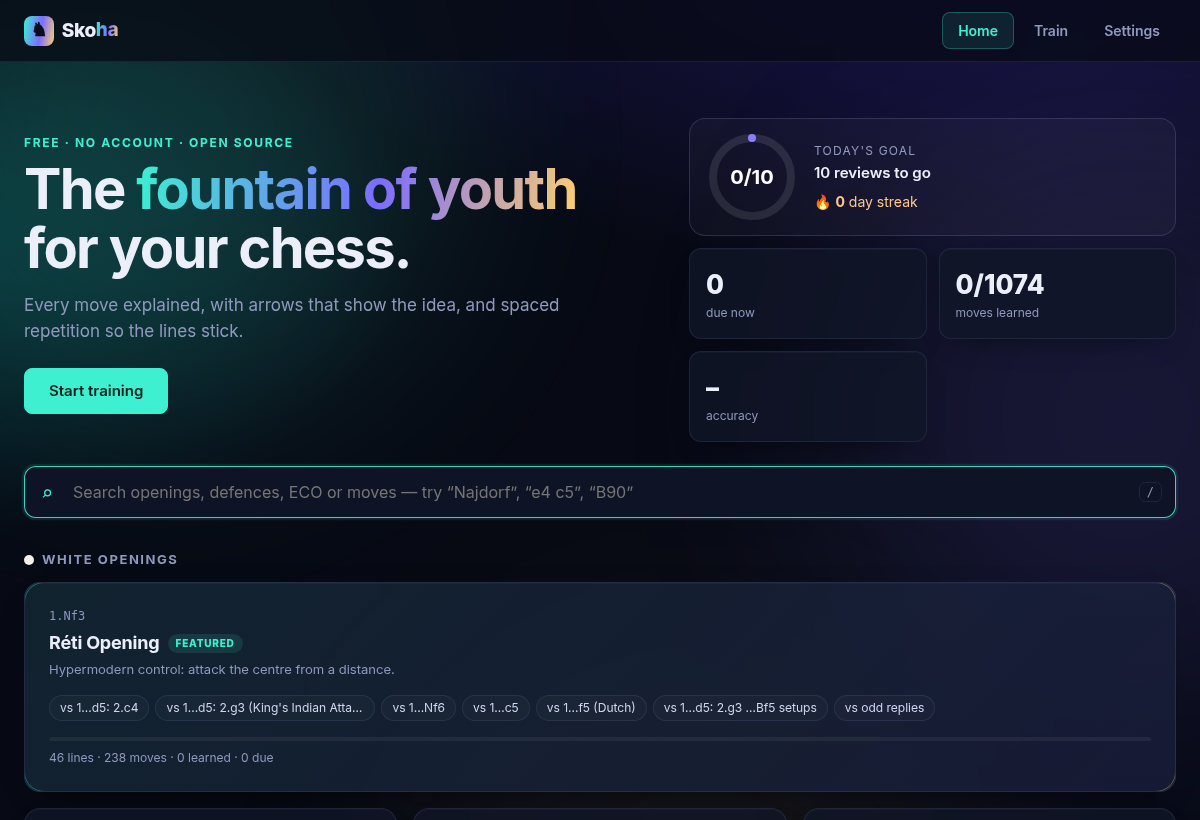
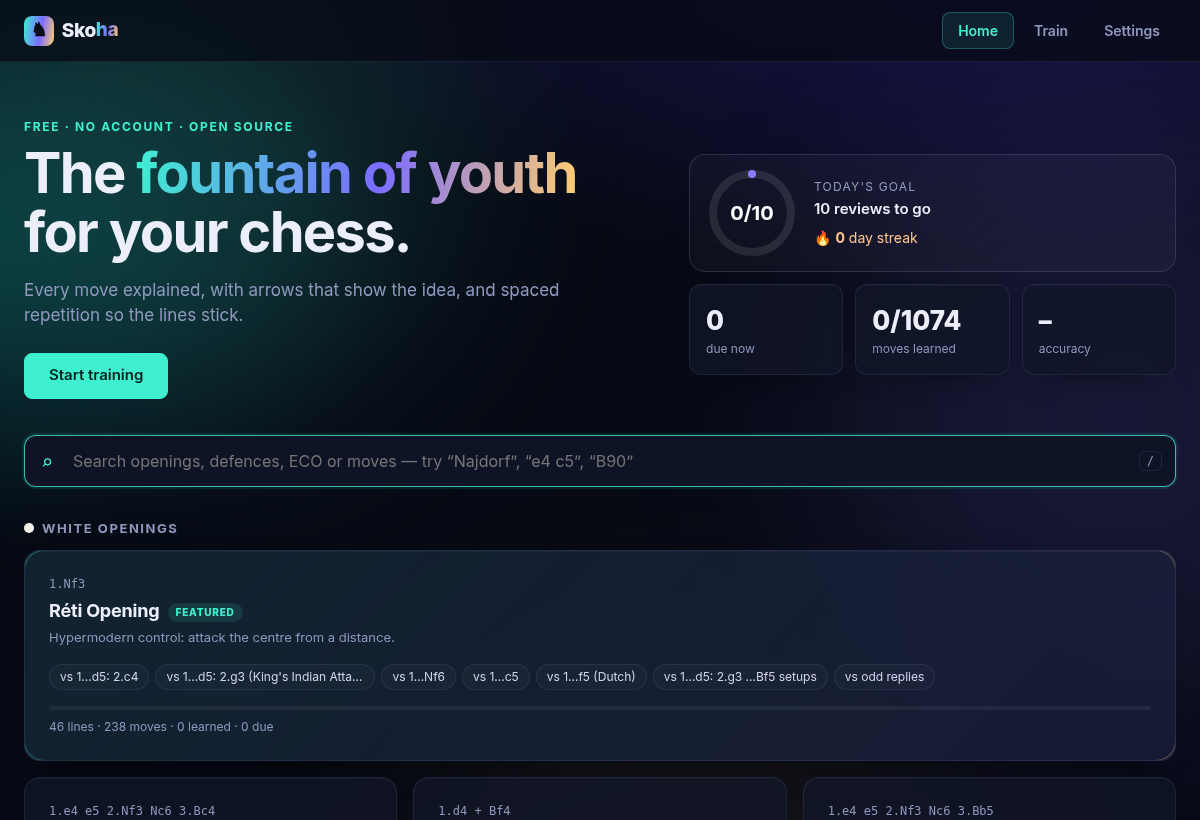
Guided by default: blue move guides on every move incl. learned ones; 'No help (test yourself)' toggle hides guides/answers (persisted); guided passes don't grow SR intervals; consistent wrong-move visuals (pulse cleared, green answer + red try, cue restored); home stats in one row

diff --git a/app.js b/app.js
@@ -1,13 +1,13 @@
 import { Chess, SQUARES } from './vendor/chess.js';
 import { Chessground } from './vendor/chessground.min.js';
-import { validateLine, parsePgn, dedupe, userCards, schedule, isDue, buildQueue, soundFor, toPgn, repMoves, fenKey, describeMove, buildSearchIndex, search, navStep, suggestOpenings, dayKey, addReview, goalStreak, ringSvg, syncPayload, mergeData, encodeSync, decodeSync } from './core.js?v=20261102n';
-import { KB } from './kb.js?v=20261102n';
-import { Engine } from './engine.js?v=20261102n';
-import { Narrator } from './narrator.js?v=20261102n';
+import { validateLine, parsePgn, dedupe, userCards, schedule, isDue, buildQueue, soundFor, toPgn, repMoves, fenKey, describeMove, buildSearchIndex, search, navStep, suggestOpenings, dayKey, addReview, goalStreak, ringSvg, guidedPass, syncPayload, mergeData, encodeSync, decodeSync } from './core.js?v=20261102o';
+import { KB } from './kb.js?v=20261102o';
+import { Engine } from './engine.js?v=20261102o';
+import { Narrator } from './narrator.js?v=20261102o';
 
 const KEY = 'freereps.v2';  // same key as v2 so progress carries over
 const $ = s => document.querySelector(s);
-const DEF = { sound: true, volume: 0.7, anim: 200, delay: 400, premove: true, dests: true, coords: true, autoNext: true, flip: false, newLimit: 10, theme: 'brown', notes: true, autoReply: false, dailyGoal: 10, narrator: false, voice: '', voiceRate: 1, voicePitch: 1, narrOpp: true, confirm: false };
+const DEF = { sound: true, volume: 0.7, anim: 200, delay: 400, premove: true, dests: true, coords: true, autoNext: true, flip: false, newLimit: 10, theme: 'brown', notes: true, autoReply: false, dailyGoal: 10, narrator: false, voice: '', voiceRate: 1, voicePitch: 1, narrOpp: true, confirm: false, help: 'guided' };
 let db = load();
 function load() {
   try {
@@ -333,7 +333,7 @@ function coach(ply, upcoming = false) {
   const mine = (ply % 2 === 0 ? 'w' : 'b') === userColor();
   const num = Math.floor(ply / 2) + 1 + (ply % 2 ? '...' : '.');
   const text = n?.t || describeMove(mv, c.inCheck());
-  const label = upcoming ? 'New move: why we play it' : mine ? 'Your move' : 'Opponent\'s reply';
+  const label = upcoming ? (drill.learning ? 'New move: why we play it' : 'Guided: your move') : mine ? 'Your move' : 'Opponent\'s reply';
   // bubble goes over the top edge (opponent's back ranks) unless the move or its arrows live there
   const whiteView = drillCg.state.orientation === 'white', row = q => whiteView ? 8 - +q[1] : +q[1] - 1;
   const nx = !upcoming && !mine && l.m[ply + 1] ? new Chess(c.fen()).move(l.m[ply + 1]) : null;
@@ -354,9 +354,10 @@ function coach(ply, upcoming = false) {
   if ($('#drill').classList.contains('active')) {
     const sh = shapesOf(n);
     if (upcoming) sh.push(...cueShapes(mv));
-    if (upcoming || drill.view != null || !(drill.learning && drill.chess.turn() === userColor())) drillCg.setAutoShapes(sh);
+    if (upcoming || drill.view != null || !(guided() && drill.chess.turn() === userColor())) drillCg.setAutoShapes(sh);
   }
 }
+const guided = () => drill.learning || S().help !== 'none';
 const PIECE = { p: 'pawn', n: 'knight', b: 'bishop', r: 'rook', q: 'queen', k: 'king' };
 function playLead(m) {
   if (m.flags.includes('k') || m.flags.includes('q')) return `Play ${m.san}: castle ${m.flags.includes('k') ? 'kingside' : 'queenside'} (king from ${m.from} to ${m.to})`;
@@ -366,7 +367,7 @@ const cueShapes = m => [{ orig: m.from, dest: m.to, brush: 'blue', modifiers: { 
 // show the move to play for a new (unlearned) move: bold blue arrow, ringed from/to squares, pulsing target, "Play X" bubble
 function cueNew() {
   const p = $('#drillPulse'); if (p) p.hidden = true;
-  if (!drill.line || drill.view != null || !drill.learning || drill.waiting || drill.ply >= drill.line.length || drill.chess.turn() !== userColor()) return;
+  if (!drill.line || drill.view != null || !guided() || drill.waiting || drill.ply >= drill.line.length || drill.chess.turn() !== userColor()) return;
   if (!$('#drill').classList.contains('active')) return;
   const m = new Chess(drill.chess.fen()).move(drill.line[drill.ply]); if (!m) return;
   coach(drill.ply, true); drillCg.setAutoShapes([...cueShapes(m)]);
@@ -378,6 +379,12 @@ function cueNew() {
   Object.assign(el.style, { left: bd.left - st.left + x + 'px', top: bd.top - st.top + y + 'px', width: w + 'px', height: w + 'px' }); el.hidden = false; el.dataset.sq = m.to;
 }
 window.__freereps.cueNew = () => cueNew();
+function helpUi() { const b = $('#helpToggle'), on = S().help !== 'none'; b.textContent = on ? '🧭 Help: Guided' : '🎯 No help (test yourself)'; b.setAttribute('aria-pressed', String(!on)); b.classList.toggle('nohelp', !on);
+  b.title = on ? 'Blue guides show every move. Click to test yourself from memory.' : 'Moves you have learned are hidden. Click to show guides again.'; }
+$('#helpToggle').onclick = () => { S().help = S().help === 'none' ? 'guided' : 'none'; save(); helpUi();
+  if (drill.line && drill.view == null && !play && drill.chess.turn() === userColor() && drill.ply < drill.line.length) {
+    if (guided()) { cueNew(); } else { drillCg.setAutoShapes([]); if ($('#drillPulse')) $('#drillPulse').hidden = true; if (drill.ply) coach(drill.ply - 1); else { $('#drillNote').className = 'bnote empty'; $('#drillNote').innerHTML = ''; } msg('No help: play the move from memory.'); } } };
+helpUi();
 // ---------- PWA: offline + install ----------
 if ('serviceWorker' in navigator && location.protocol !== 'file:') {
   navigator.serviceWorker.register('sw.js', { updateViaCache: 'none' }).then(r => { r.update().catch(() => {}); setInterval(() => r.update().catch(() => {}), 30 * 60e3); }).catch(() => {});
@@ -478,7 +485,7 @@ function navGo(v) {
     resync(); coach(drill.ply - 1); cueNew(); if (drill.waiting) drillCg.set({ movable: { color: undefined } }); navUi();
     if (drill.ply >= drill.line.length) drillCg.set({ movable: { color: undefined } });
     else if (drill.paused) { drill.paused = false; advance(); }
-    else if (drill.learning && drill.chess.turn() === userColor()) coach(drill.ply, true);
+    else if (guided() && drill.chess.turn() === userColor()) coach(drill.ply, true);
     return;
   }
   const c = new Chess(); drill.line.slice(0, nv).forEach(x => c.move(x)); const h = c.history({ verbose: true }).at(-1);
@@ -544,6 +551,7 @@ function advance() {
     const card = cardsOf(drill.rep)[cardKey()];
     drill.missed = false; drill.learning = !card;
     if (drill.learning) { msg(`New move: play <b>${drill.line[drill.ply]}</b> (follow the blue arrow).`); cueNew(); navUi(); }
+    else if (S().help !== 'none') { msg(`Your move: play <b>${drill.line[drill.ply]}</b> (guided). Switch to <b>No help</b> to test yourself.`); cueNew(); navUi(); }
     else { drillCg.setAutoShapes([]); cueNew(); }
     drillCg.playPremove();
   } else {
@@ -578,6 +586,7 @@ function record(ok) {
   const cs = cardsOf(drill.rep), k = cardKey(), card = cs[k];
   if (!ok) cs[k] = schedule(card, 2);
   else if (drill.learning) cs[k] = schedule(card, 4);
+  else if (!drill.missed && S().help !== 'none' && isDue(card)) cs[k] = guidedPass(card);
   else if (!drill.missed && isDue(card)) cs[k] = schedule(card, 5);
   db.stats ||= { reviews: 0, correct: 0 }; if (!drill.learning) { db.stats.reviews++; if (ok) db.stats.correct++; }
   { const was = (db.history || {})[dayKey()] || 0; db.history = addReview(db.history); if (was + 1 === (S().dailyGoal || 10)) setTimeout(() => toast('🎯 Daily goal reached! Streak: ' + goalStreak(db.history, S().dailyGoal) + ' day(s)'), 50); }
@@ -626,6 +635,9 @@ function wrongCard(m, expected) {
   el.innerHTML = `<div class="coach-card"><div class="coach-head"><span class="coach-san">${esc(m.san)} ✘</span><span class="who bad">Not this move</span></div><p class="play" id="wrongLead"><b>The move is ${esc(expected)}: ${esc(playLead(ok).replace(/^Play \S+: /, ''))}.</b></p><p>${esc(why)}</p><p class="prevnote">Try it now: follow the green arrow.</p></div>`;
   if ($('#drill').classList.contains('active')) drillCg.setAutoShapes([{ orig: m.from, dest: m.to, brush: 'red' }, { orig: ok.from, dest: ok.to, brush: 'green', modifiers: { lineWidth: 14 } }, { orig: ok.to, brush: 'green' }]);
   Narrator.say(null, `Not quite. The move is ${expected}. ${why}`);
+  if ($('#drillPulse')) $('#drillPulse').hidden = true;
+  const at = drill.ply, li = drill.li; clearTimeout(drill.wrongT);
+  drill.wrongT = setTimeout(() => { if (drill.ply === at && drill.li === li && drill.view == null && !play) cueNew(); }, 2600);
 }
 // optional tap-to-move confirm on touch screens
 const coarse = () => matchMedia('(pointer: coarse)').matches;

diff --git a/index.html b/index.html
@@ -7,7 +7,7 @@
 <link rel="stylesheet" href="vendor/chessground.base.css">
 <link rel="stylesheet" href="vendor/chessground.brown.css">
 <link rel="stylesheet" href="vendor/chessground.cburnett.css">
-<link rel="stylesheet" href="style.css?v=20261102n">
+<link rel="stylesheet" href="style.css?v=20261102o">
 <link rel="icon" href="icons/favicon-32.png" sizes="32x32"><link rel="icon" href="icons/icon.svg" type="image/svg+xml">
 <link rel="apple-touch-icon" href="icons/apple-touch-icon.png">
 <link rel="manifest" href="manifest.webmanifest">
@@ -80,6 +80,7 @@
       <select id="drillChapter" hidden aria-label="Chapter"></select>
       <select id="drillLine" hidden aria-label="Line"></select>
       </div></details>
+      <button id="helpToggle" class="helpt" aria-pressed="false">🧭 Help: Guided</button>
       <div class="tstats" id="drillStats" aria-live="polite"></div>
     </div>
     <div class="tsplit">
@@ -207,5 +208,5 @@
   </div>
 </div>
 <footer>Skoha: free &amp; open source (GPL-3.0). <a id="srcLink" href="https://github.com/Killian-clendenen/skoha">Source code</a> · Board: chessground (GPL-3.0) · Rules: chess.js (BSD-2) · Engine: Stockfish.js (GPL-3.0).</footer>
-<script type="module" src="app.js?v=20261102n"></script>
+<script type="module" src="app.js?v=20261102o"></script>
 </body></html>

diff --git a/style.css b/style.css
@@ -305,3 +305,7 @@ footer{max-width:1200px;margin:0 auto;padding:var(--s6) var(--s5);border-top:1px
 .bnote.wrong .coach-card{border-color:rgba(255,92,108,.7)}.bnote .who.bad{background:rgba(255,92,108,.16);color:#ff9aa5;border:1px solid rgba(255,92,108,.5)}.bnote.wrong p.play{color:#9ff0c0}
 @media (pointer:coarse){button,.btn,select,input[type=number]{min-height:48px}.chip{min-height:40px;display:inline-flex;align-items:center}.tbtns button{min-width:56px}nav a{min-height:44px;display:inline-flex;align-items:center}
   label:has(input[type=checkbox]){min-height:44px;display:flex;align-items:center;gap:10px}input[type=checkbox]{width:22px;height:22px}.tmore>summary{min-height:48px}.gopts button{min-height:52px}}
+.helpt{height:40px}.helpt.nohelp{border-color:#ffb35c;color:#ffcf8f;background:rgba(255,179,92,.08)}
+/* home stats: goal card full width, three stats in one row */
+.stats{grid-template-columns:repeat(3,1fr)}.stats .goal{grid-column:1/-1}
+@media(max-width:420px){.stats .stat{padding:var(--s3)}.stats .stat .n{font-size:20px}}

diff --git a/sw.js b/sw.js
@@ -2,7 +2,7 @@
 // App code/content (html, js, css, json, pgn) is NETWORK-FIRST, so a new deploy shows up on the next load whenever
 // the device is online; the cache is only a fallback for offline. Big immutable assets (vendor, sounds, icons) are
 // cache-first. Bump VERSION to drop old caches; skipWaiting + clients.claim activate a new worker immediately.
-const VERSION = 'skoha-20261102n';
+const VERSION = 'skoha-20261102o';
 const SHELL = ['./', 'index.html', 'app.js', 'core.js', 'kb.js', 'narrator.js', 'engine.js', 'style.css', 'manifest.webmanifest',
   'vendor/chess.js', 'vendor/chessground.min.js', 'vendor/chessground.base.css', 'vendor/chessground.brown.css', 'vendor/chessground.cburnett.css',
   'vendor/stockfish/stockfish-19-lite-single.js', 'vendor/stockfish/stockfish-19-lite-single.wasm',

diff --git a/core.js b/core.js
@@ -288,3 +288,10 @@ export async function decodeSync(code) {
   const c = String(code).trim().replace(/^.*#\/sync\//, '').replace(/\s+/g, ''); if (!c.startsWith('SK1.')) throw new Error('not a Skoha sync code');
   return JSON.parse(new TextDecoder().decode(await pipe(b64u.dec(c.slice(4)), DecompressionStream)));
 }
+
+// Guided pass (the answer was shown): keeps the card in daily rotation but never grows its interval;
+// only a No-help pass (schedule(card, 5)) advances spaced repetition.
+export function guidedPass(card, now = Date.now()) {
+  const c = { ease: 2.5, interval: 0, reps: 0, lapses: 0, ...card };
+  c.guided = (c.guided || 0) + 1; c.due = Math.min(c.due ?? Infinity, now + DAY); if (c.due < now) c.due = now + DAY; return c;
+}

diff --git a/narrator.js b/narrator.js
@@ -1,5 +1,5 @@
 // Free, offline-capable narrator using the browser's Web Speech API (speechSynthesis).
-import { sanToWords, speechText, pickVoice } from './core.js?v=20261102n';
+import { sanToWords, speechText, pickVoice } from './core.js?v=20261102o';
 const ss = () => window.speechSynthesis;
 let unlocked = false, settings = () => ({});
 export const Narrator = {
